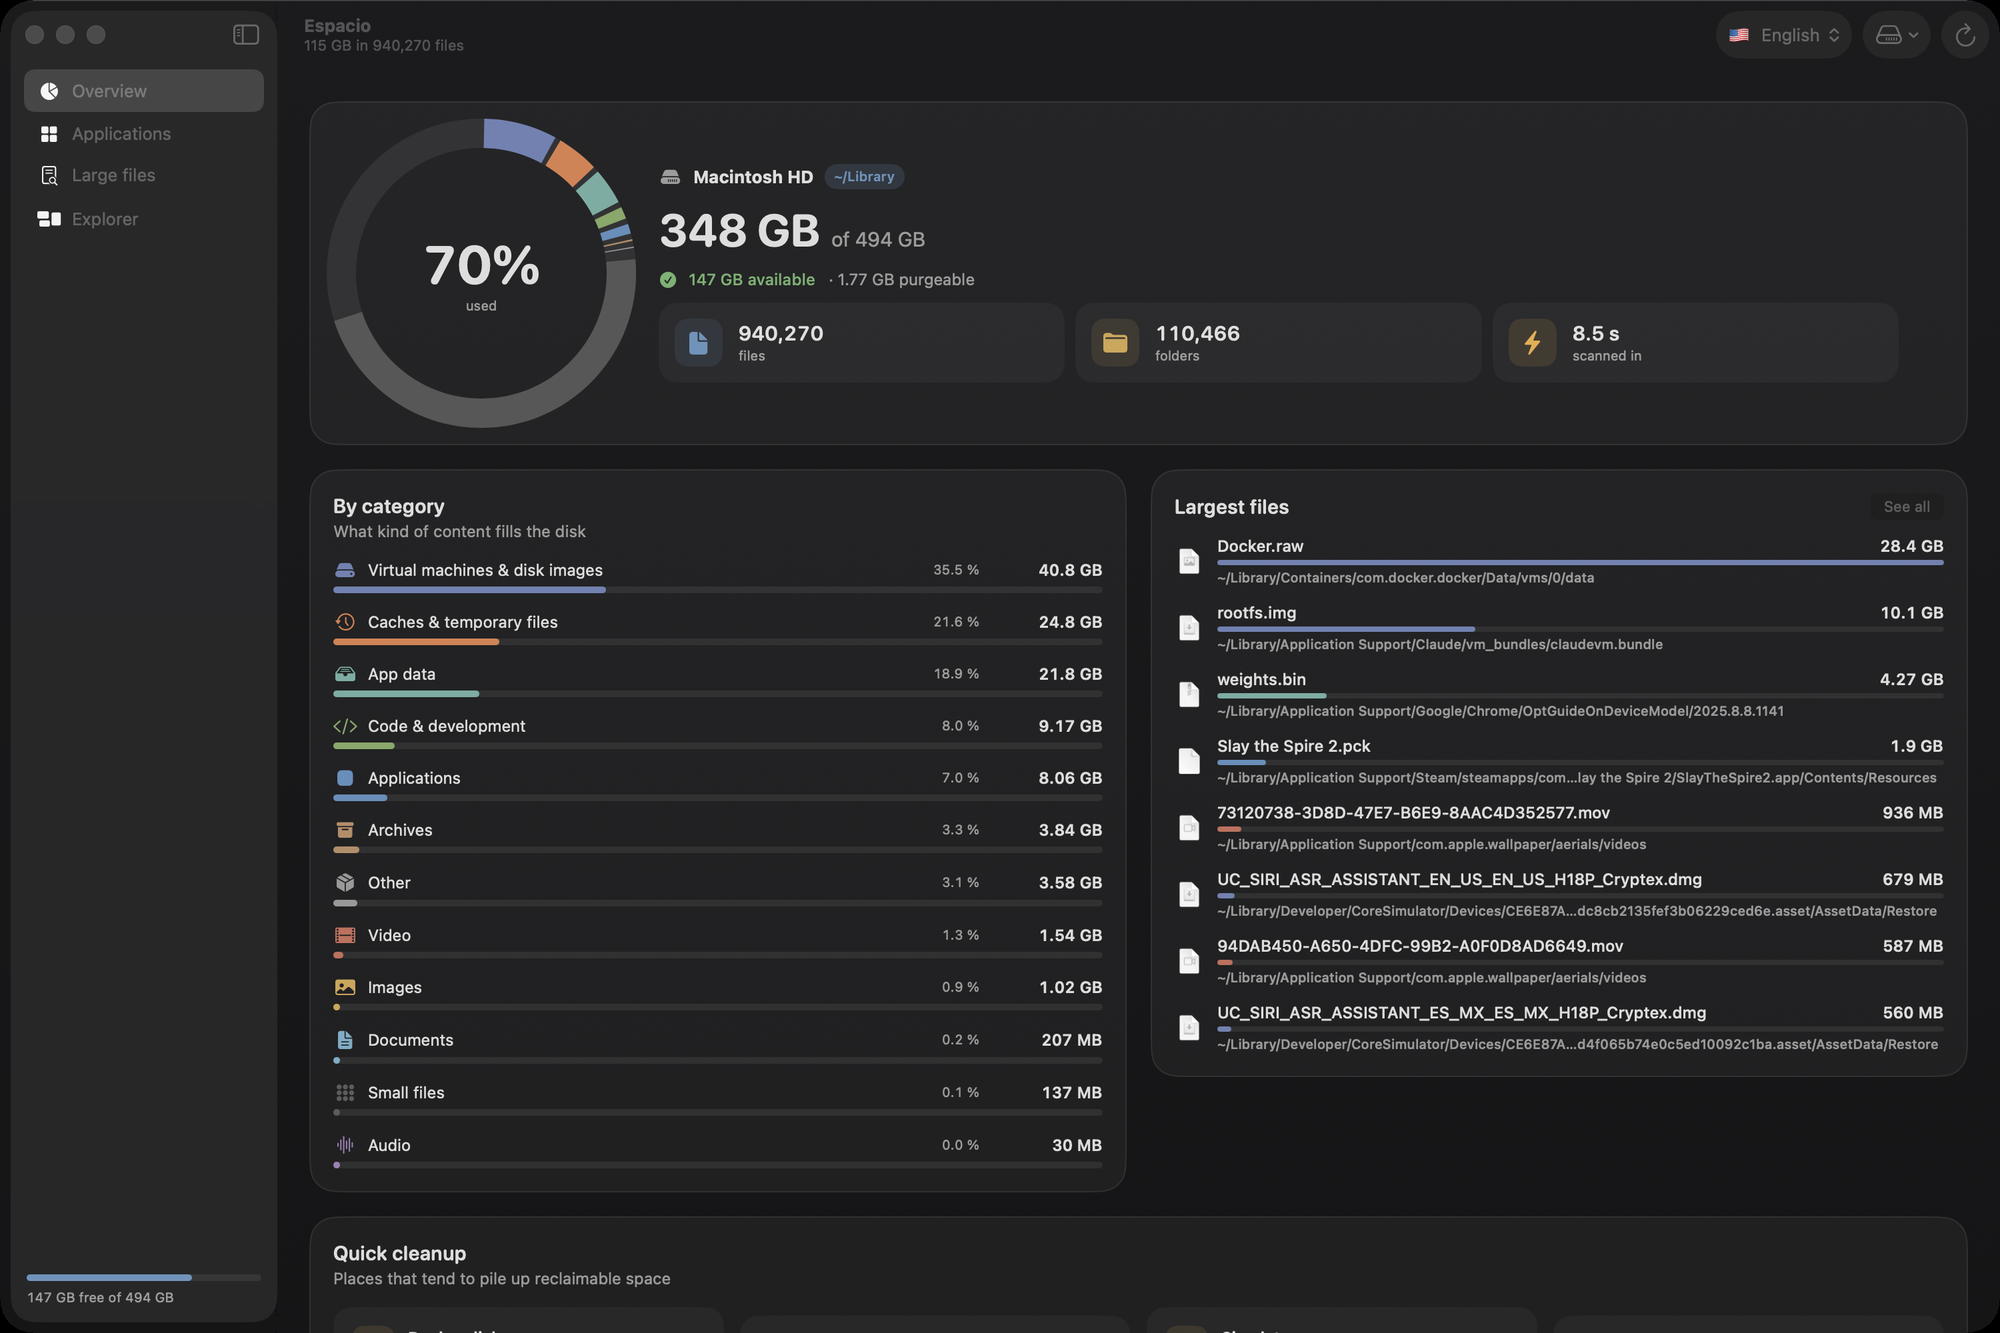
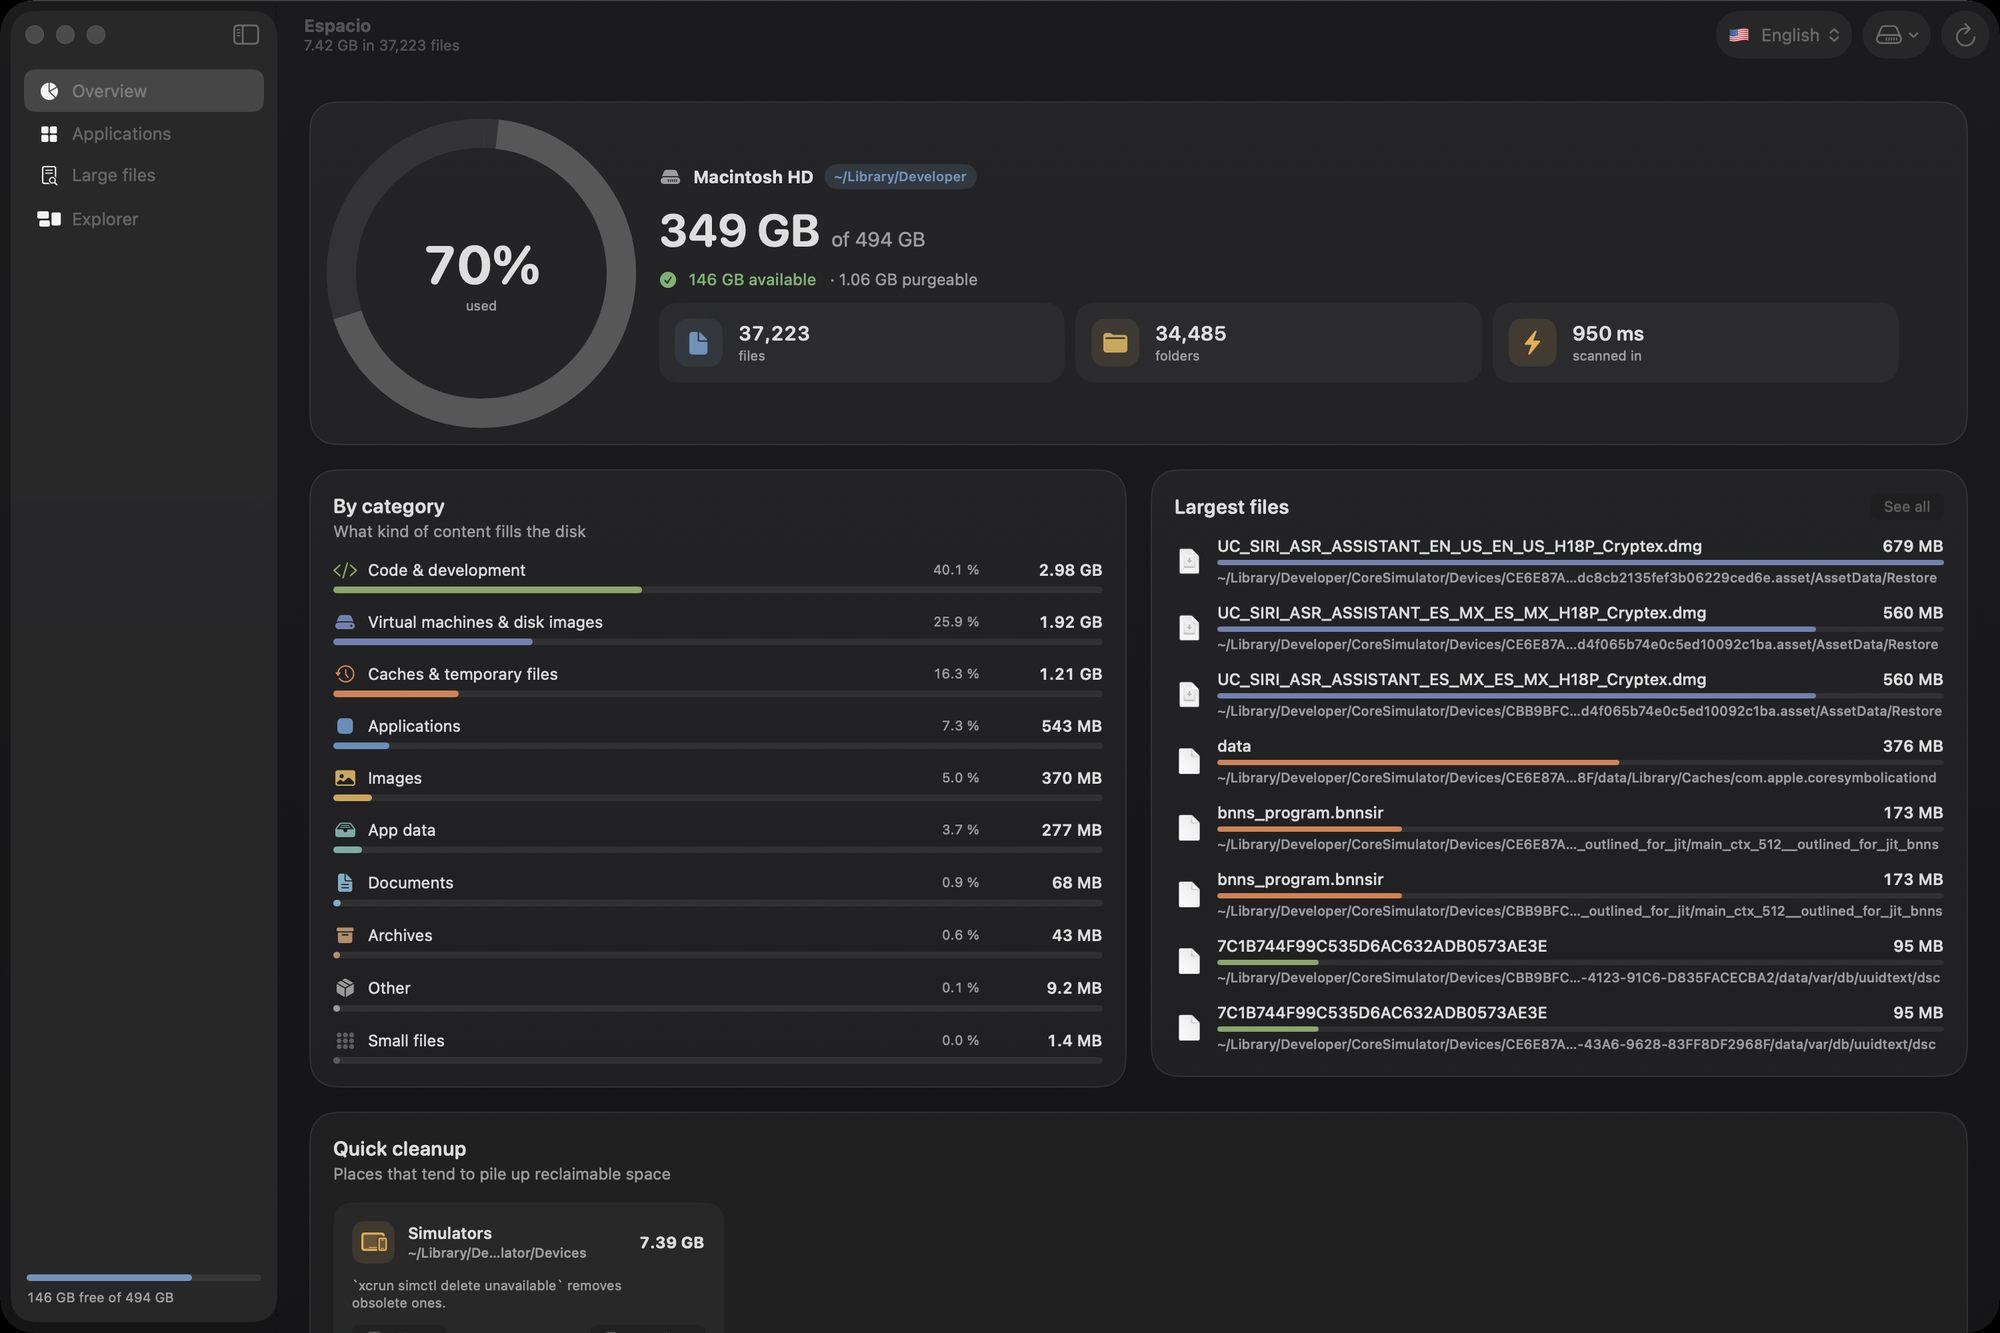
Stress that Espacio is free and open source, refresh screenshots
The README now says up front that there is no paywall, subscription,
account or telemetry, and invites contributions. Screenshots were
retaken on neutral folders (~/Library/Developer and /System/Library) so
they show the app without anyone's personal files.

diff --git a/README.md b/README.md
@@ -4,6 +4,11 @@ A fast, good-looking disk analyzer and app uninstaller for macOS. Find what is
 eating your disk, see it as a treemap, and get the space back. Everything you
 remove goes to the Trash, never straight to oblivion.
 
+**Free and open source, with no paywall.** No subscriptions, no "unlock to
+delete" button, no accounts, no telemetry, no bundled extras. The whole app is
+in this repository under the MIT license, and the download is the same build
+you can compile yourself.
+
 **[Download Espacio.dmg](https://github.com/manu515256/espacio-app/releases/latest/download/Espacio.dmg)** · macOS 26 (Tahoe) or later · Apple Silicon
 
 *También en español: cambiá el idioma desde el menú 🇺🇸 / 🇪🇸 de la barra superior.*
@@ -66,6 +71,8 @@ files took 6 s where `du -s` needed 30 s.
 
 ## Safety
 
+- Nothing is locked behind a purchase: scanning, exploring and deleting all
+  work the same for everyone, forever.
 - Every removal is a move to the Trash. You can always put things back.
 - Emptying the Trash is delegated to Finder and always asks first.
 - Uninstalling an app quits it first if it is running.
@@ -119,6 +126,12 @@ English translations). Code calls `L("key")` or `L("key %@", args)`; numbers,
 dates and percentages follow the chosen locale. To add a language, add a case to
 `AppLanguage` and the translations to the catalog.
 
+## Contributing
+
+Issues and pull requests are welcome. If a folder was mis-categorized, an app
+left leftovers behind, or a cleanup target is missing from *Quick cleanup*,
+open an issue with the path and Espacio will learn about it.
+
 ## License
 
-[MIT](LICENSE) © 2026 Manuel Doña
+[MIT](LICENSE) © 2026 Manuel Doña. Free to use, study, modify and redistribute.
